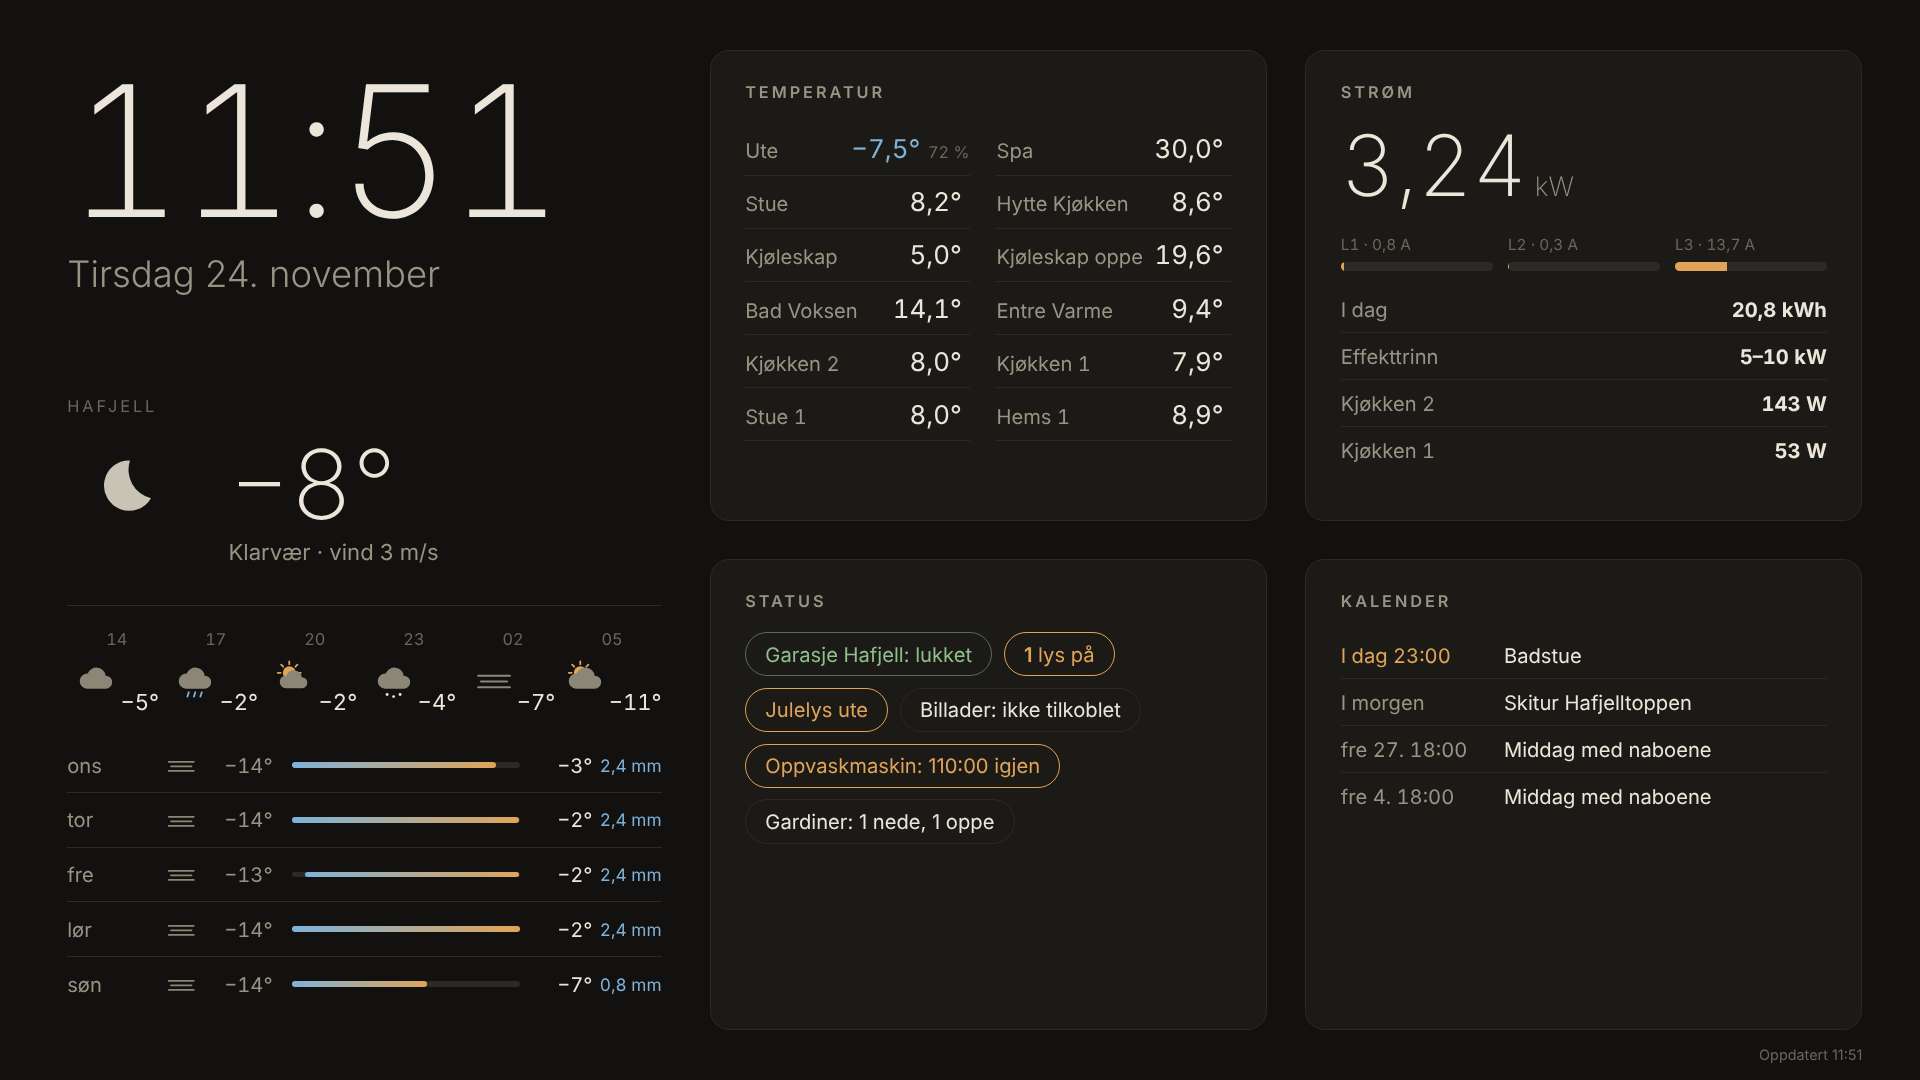
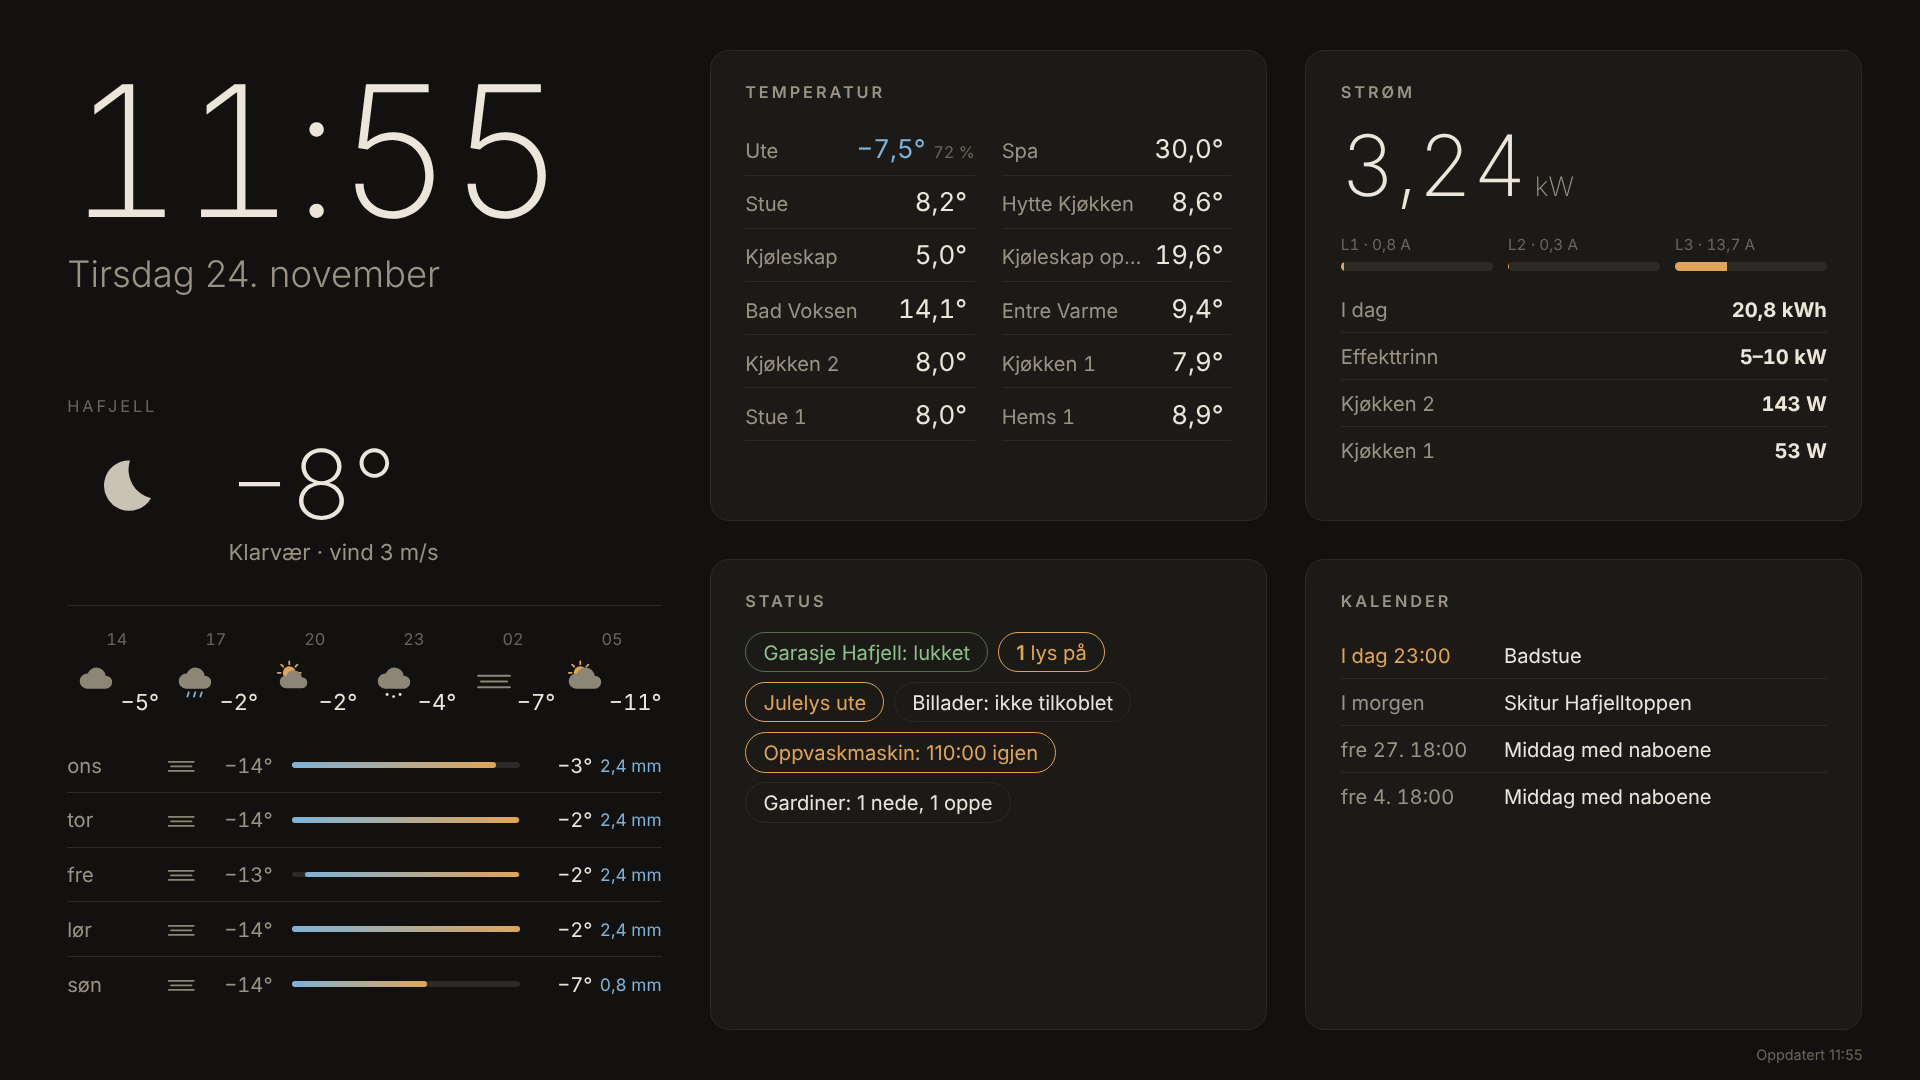
Frame-dashboard: støtte for Skøyen (Tibber Pulse, bil, søppel, inneluft, lås, Sonos)
Claude-Session: https://claude.ai/code/session_01AziwnfH2sX1nP2CiYpmx7j

diff --git a/frame/index.html b/frame/index.html
@@ -56,10 +56,10 @@ h2{font-size:.85vw;font-weight:600;letter-spacing:.18em;text-transform:uppercase
 .day .pr{width:3.6vw;text-align:right;color:var(--cold);font-size:.9vw}
 
 /* klima */
-.temps{display:grid;grid-template-columns:1fr 1fr;grid-column-gap:1.4vw}
+.temps{display:grid;grid-template-columns:minmax(0,1fr) minmax(0,1fr);grid-column-gap:1.4vw}
 .t{display:flex;justify-content:space-between;align-items:baseline;padding:.55vw 0;border-bottom:1px solid var(--line)}
 .t span{color:var(--muted);white-space:nowrap;overflow:hidden;text-overflow:ellipsis;margin-right:.6vw}
-.t b{font-weight:400;font-size:1.35vw}
+.t b{font-weight:400;font-size:1.35vw;white-space:nowrap}
 .t em{font-style:normal;color:var(--dim);font-size:.85vw;margin-left:.4vw}
 
 /* strøm */
@@ -78,7 +78,7 @@ h2{font-size:.85vw;font-weight:600;letter-spacing:.18em;text-transform:uppercase
 
 /* status */
 .chips{display:flex;flex-wrap:wrap}
-.chip{border:1px solid var(--line);border-radius:2vw;padding:.45vw 1vw;margin:0 .6vw .6vw 0;white-space:nowrap}
+.chip{border:1px solid var(--line);border-radius:2vw;padding:.35vw .9vw;margin:0 .5vw .5vw 0;white-space:nowrap}
 .chip.on{border-color:var(--accent);color:var(--accent)}
 .chip.alert{border-color:var(--warm);color:#fff;background:rgba(224,122,95,.25)}
 .chip.good{color:var(--ok);border-color:rgba(143,191,138,.5)}
@@ -149,7 +149,7 @@ h2{font-size:.85vw;font-weight:600;letter-spacing:.18em;text-transform:uppercase
 "use strict";
 
 /* ---------- oppsett ---------- */
-var KEYS=["homey","key","base","lat","lon","place","ics","proxy"];
+var KEYS=["homey","key","base","lat","lon","place","ics","proxy","fuse"];
 var cfg={};
 function store(k,v){try{localStorage.setItem("frame."+k,v);}catch(e){}}
 function load(k){try{return localStorage.getItem("frame."+k);}catch(e){return null;}}
@@ -303,11 +303,14 @@ function homey(){
 function renderTemps(devs){
   // Prioriter sensorer, deretter termostater/ovner med målt temperatur. Hopp over apparater (ovn, vifter, avfukter).
   var skip=/^(other|fan|dehumidifier|evcharger)$/;
-  var rows=devs.filter(function(d){return has(d,"measure_temperature")&&!skip.test(d.class);});
+  var rows=devs.filter(function(d){
+    var v=cap(d,"measure_temperature");
+    return has(d,"measure_temperature")&&!skip.test(d.class)&&v>-60&&v<100&&!has(d,"forecast_time")&&!/vær|weather|smhi|yr\b/i.test(d.name);
+  });
   var sensors=rows.filter(function(d){return d.class==="sensor";});
   var rest=rows.filter(function(d){return d.class!=="sensor";});
   var ute=null;
-  sensors=sensors.filter(function(d){if(/^ute$|utendørs|outdoor/i.test(d.name)){ute=d;return false;}return true;});
+  sensors=sensors.filter(function(d){if(!ute&&/^ute$|utendørs|outdoor|målestasjon|netatmo/i.test(d.name)){ute=d;return false;}return true;});
   // ekstra: spa (other med target_temperature)
   var spa=devs.filter(function(d){return /spa|boblebad|jacuzzi/i.test(d.name)&&has(d,"measure_temperature")&&d.class==="other";});
   var list=(ute?[ute]:[]).concat(spa,sensors,rest).filter(function(d){return !/røyk|smoke/i.test(d.name);}).slice(0,12);
@@ -315,33 +318,35 @@ function renderTemps(devs){
     var v=cap(d,"measure_temperature"),hum=cap(d,"measure_humidity");
     var extra=(d===ute&&hum)?fmt(hum)+" %":"";
     var col=v<=0?' style="color:var(--cold)"':"";
-    return '<div class="t"><span>'+esc(d.name)+'</span><b'+col+'>'+fmt(v,1)+'°<em>'+extra+'</em></b></div>';
+    return '<div class="t"><span>'+esc(d===ute?"Ute":d.name)+'</span><b'+col+'>'+fmt(v,1)+'°<em>'+extra+'</em></b></div>';
   }).join(""):'<div class="empty">Ingen temperaturer</div>';
 }
 
 function renderPower(devs){
   // Hovedmåler: sensor med meter_power.daily eller strøm per fase, ellers høyeste measure_power
-  var main=devs.filter(function(d){return has(d,"measure_current.l1")||has(d,"meter_power.daily")||/strøm|han|pulse|tibber|power ?meter/i.test(d.name)&&has(d,"measure_power");})[0];
+  var main=devs.filter(function(d){return has(d,"measure_current.l1")||has(d,"measure_current.L1")||has(d,"meter_power.daily")||/strøm|han|pulse|tibber|power ?meter/i.test(d.name)&&has(d,"measure_power");})[0];
+  function amp(i){var a=cap(main,"measure_current.l"+i);return a!=null?a:cap(main,"measure_current.L"+i);}
   var w=main?cap(main,"measure_power"):null;
   if(w==null){
     w=devs.reduce(function(s,d){return s+(d.class!=="sensor"&&has(d,"measure_power")?cap(d,"measure_power"):0);},0);
   }
   powerHist.push(w); if(powerHist.length>120)powerHist.shift(); // ~1 time ved 30 s
   var html='<div class="big num">'+(w>=1000?fmt(w/1000,2)+'<small>kW</small>':fmt(w)+'<small>W</small>')+'</div>';
-  if(main&&has(main,"measure_current.l1")){
+  if(main&&amp(1)!=null){
     html+='<div class="phases num">'+[1,2,3].map(function(i){
-      var a=cap(main,"measure_current.l"+i)||0,pct=cap(main,"net_load_phase"+i+"_pct");
-      if(pct==null)pct=Math.min(100,a/25*100);
-      return '<div class="ph"><small>L'+i+' · '+fmt(a,1)+' A</small><div class="bar"><i style="width:'+Math.min(100,pct)+'%"></i></div></div>';
+      var a=amp(i),pct=cap(main,"net_load_phase"+i+"_pct");
+      if(pct==null)pct=Math.min(100,(a||0)/(+cfg.fuse||32)*100);
+      return '<div class="ph"><small>L'+i+' · '+(a==null?"–":fmt(a,1)+' A')+'</small><div class="bar"><i style="width:'+Math.min(100,pct)+'%"></i></div></div>';
     }).join("")+'</div>';
   }
   var kv=[];
   if(main&&has(main,"meter_power.daily"))kv.push(["I dag",fmt(cap(main,"meter_power.daily"),1)+" kWh"]);
+  else if(main&&has(main,"meter_power.imported")&&has(main,"meter_power"))kv.push(["I dag",fmt(cap(main,"meter_power"),1)+" kWh"]); // Tibber Pulse: meter_power = hittil i dag
   var guard=devs.filter(function(d){return has(d,"effektledd");})[0];
   if(guard)kv.push(["Effekttrinn",cap(guard,"effektledd")]);
   // største forbrukere nå
   var top=devs.filter(function(d){return d!==main&&d!==guard&&has(d,"measure_power")&&cap(d,"measure_power")>=20&&d.class!=="sensor";})
-    .sort(function(a,b){return cap(b,"measure_power")-cap(a,"measure_power");}).slice(0,3);
+    .sort(function(a,b){return cap(b,"measure_power")-cap(a,"measure_power");}).slice(0,2);
   top.forEach(function(d){kv.push([d.name,fmt(cap(d,"measure_power"))+" W"]);});
   html+=kv.map(function(r){return '<div class="kv num"><span>'+esc(r[0])+'</span><b>'+esc(r[1])+'</b></div>';}).join("");
   html+=spark();
@@ -360,7 +365,7 @@ function renderStatus(devs){
   // alarmer først
   devs.forEach(function(d){
     if(cap(d,"alarm_smoke"))chip("alert","Røyk: "+esc(d.name));
-    if(cap(d,"alarm_water"))chip("alert","Vann: "+esc(d.name));
+    if(cap(d,"alarm_water")||cap(d,"alarm_fire"))chip("alert",(cap(d,"alarm_fire")?"Brann: ":"Vann: ")+esc(d.name));
     if(cap(d,"alarm_battery"))chip("alert","Batteri: "+esc(d.name));
     var b=cap(d,"measure_battery"); if(b!=null&&b<=15)chip("alert","Lavt batteri "+fmt(b)+" %: "+esc(d.name));
   });
@@ -368,9 +373,29 @@ function renderStatus(devs){
     if(has(d,"garagedoor_closed"))chip(cap(d,"garagedoor_closed")?"good":"alert",esc(d.name)+": "+(cap(d,"garagedoor_closed")?"lukket":"<b>åpen</b>"));
     if(has(d,"locked")&&d.class==="lock")chip(cap(d,"locked")?"good":"alert",esc(d.name)+": "+(cap(d,"locked")?"låst":"<b>ulåst</b>"));
   });
+  devs.forEach(function(d){
+    if(d.class==="car"){
+      var st=cap(d,"ev_charging_state")||"",chg=/charging/.test(st)&&!/plugged_out/.test(st);
+      var t=esc(d.name)+": "+(has(d,"measure_battery")?"<b>"+fmt(cap(d,"measure_battery"))+" %</b>":"")+(has(d,"meter_range")?" · "+fmt(cap(d,"meter_range"))+" km":"");
+      if(chg)t+=" · lader"+(cap(d,"measure_power")?" "+fmt(cap(d,"measure_power")/1000,1)+" kW":"");
+      else if(cap(d,"plug_connected"))t+=" · tilkoblet";
+      if(cap(d,"locked")===false)t+=" · ulåst";
+      chip(chg?"on":"",t);
+    }
+    if(has(d,"pickup_next_date")){
+      var n=cap(d,"pickup_next_days");
+      chip(n!=null&&n<=1?"on":"","Søppel "+(n===0?"i dag":n===1?"i morgen":esc(cap(d,"pickup_next_date")))+": "+esc(cap(d,"pickup_next_fractions")||""));
+    }
+    if(has(d,"measure_co2")||has(d,"measure_radon")){
+      var bad=cap(d,"alarm_co2")||cap(d,"alarm_radon")||cap(d,"alarm_voc");
+      chip(bad?"alert":"good","Inneluft: "+(has(d,"measure_co2")?"CO₂ "+fmt(cap(d,"measure_co2"))+" ppm":"")+(has(d,"measure_radon")?" · radon "+fmt(cap(d,"measure_radon"))+" Bq":""));
+    }
+    if(d.class==="speaker"&&cap(d,"speaker_playing"))chip("on","♪ "+esc(cap(d,"speaker_track")||"")+(cap(d,"speaker_artist")?" – "+esc(cap(d,"speaker_artist")):"")+" ("+esc(d.name)+")");
+    if(has(d,"valve_open")&&!cap(d,"valve_open"))chip("alert",esc(d.name)+": <b>stengt</b>");
+  });
   var lights=devs.filter(function(d){return d.class==="light"&&cap(d,"onoff")===true;});
   chip(lights.length?"on":"", lights.length?"<b>"+lights.length+"</b> lys på":"Alle lys av");
-  lights.slice(0,6).forEach(function(d){chip("on",esc(d.name));});
+  if(lights.length<=2)lights.forEach(function(d){chip("on",esc(d.name));});
   devs.forEach(function(d){
     if(d.class==="evcharger"){
       var st=cap(d,"evcharger_charging_state")||cap(d,"charger_status")||"";
@@ -381,9 +406,8 @@ function renderStatus(devs){
     var rem=cap(d,"bshc_string.remaining_time");
     if(d.class==="other"&&cap(d,"onoff")&&rem&&/\d/.test(rem))chip("on",esc(d.name)+": "+esc(rem)+" igjen");
     if(has(d,"WM-operation")&&!/off/i.test(cap(d,"WM-operation")))chip("on",esc(d.name)+": i gang");
-    if(d.class==="windowcoverings"||d.class==="blinds"){}
   });
-  var blinds=devs.filter(function(d){return /windowcoverings|blinds/.test(d.class)&&has(d,"windowcoverings_state");});
+  var blinds=devs.filter(function(d){return /windowcoverings|blinds|sunshade|curtain/.test(d.class)&&has(d,"windowcoverings_state");});
   if(blinds.length){var down=blinds.filter(function(d){return cap(d,"windowcoverings_state")==="down";}).length;
     chip("","Gardiner: "+down+" nede, "+(blinds.length-down)+" oppe");}
   $("status").innerHTML=chips.join("");
